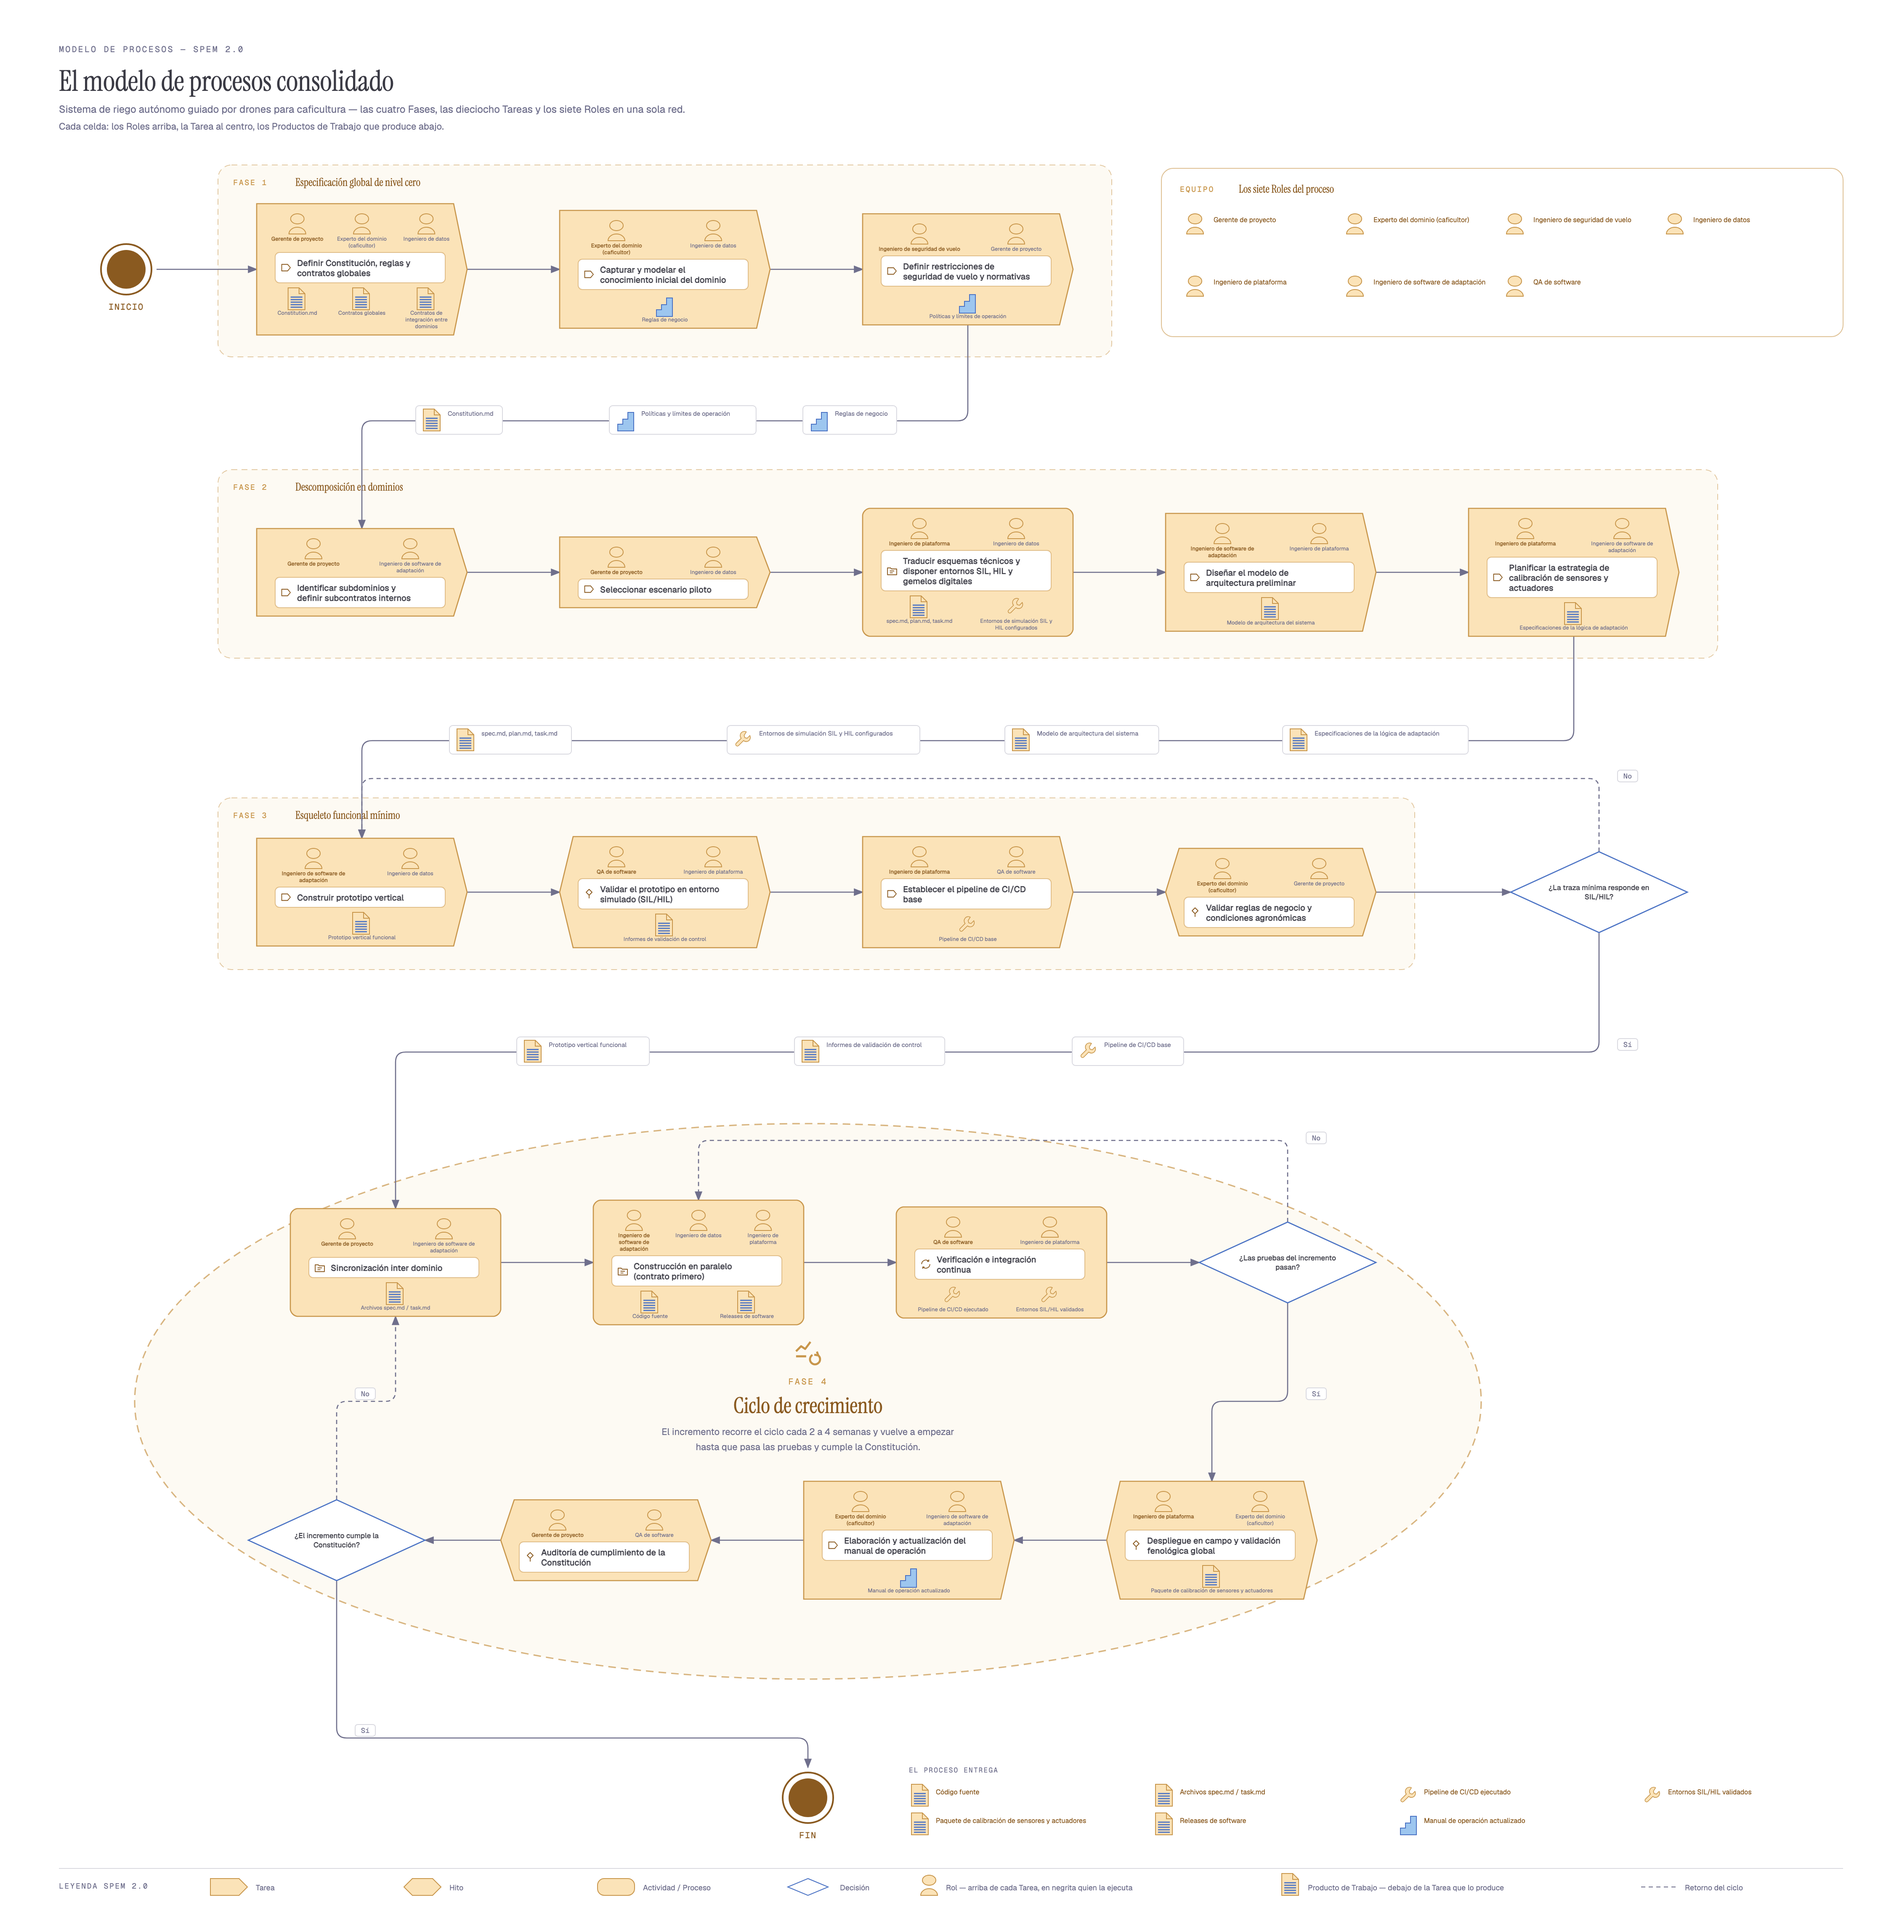
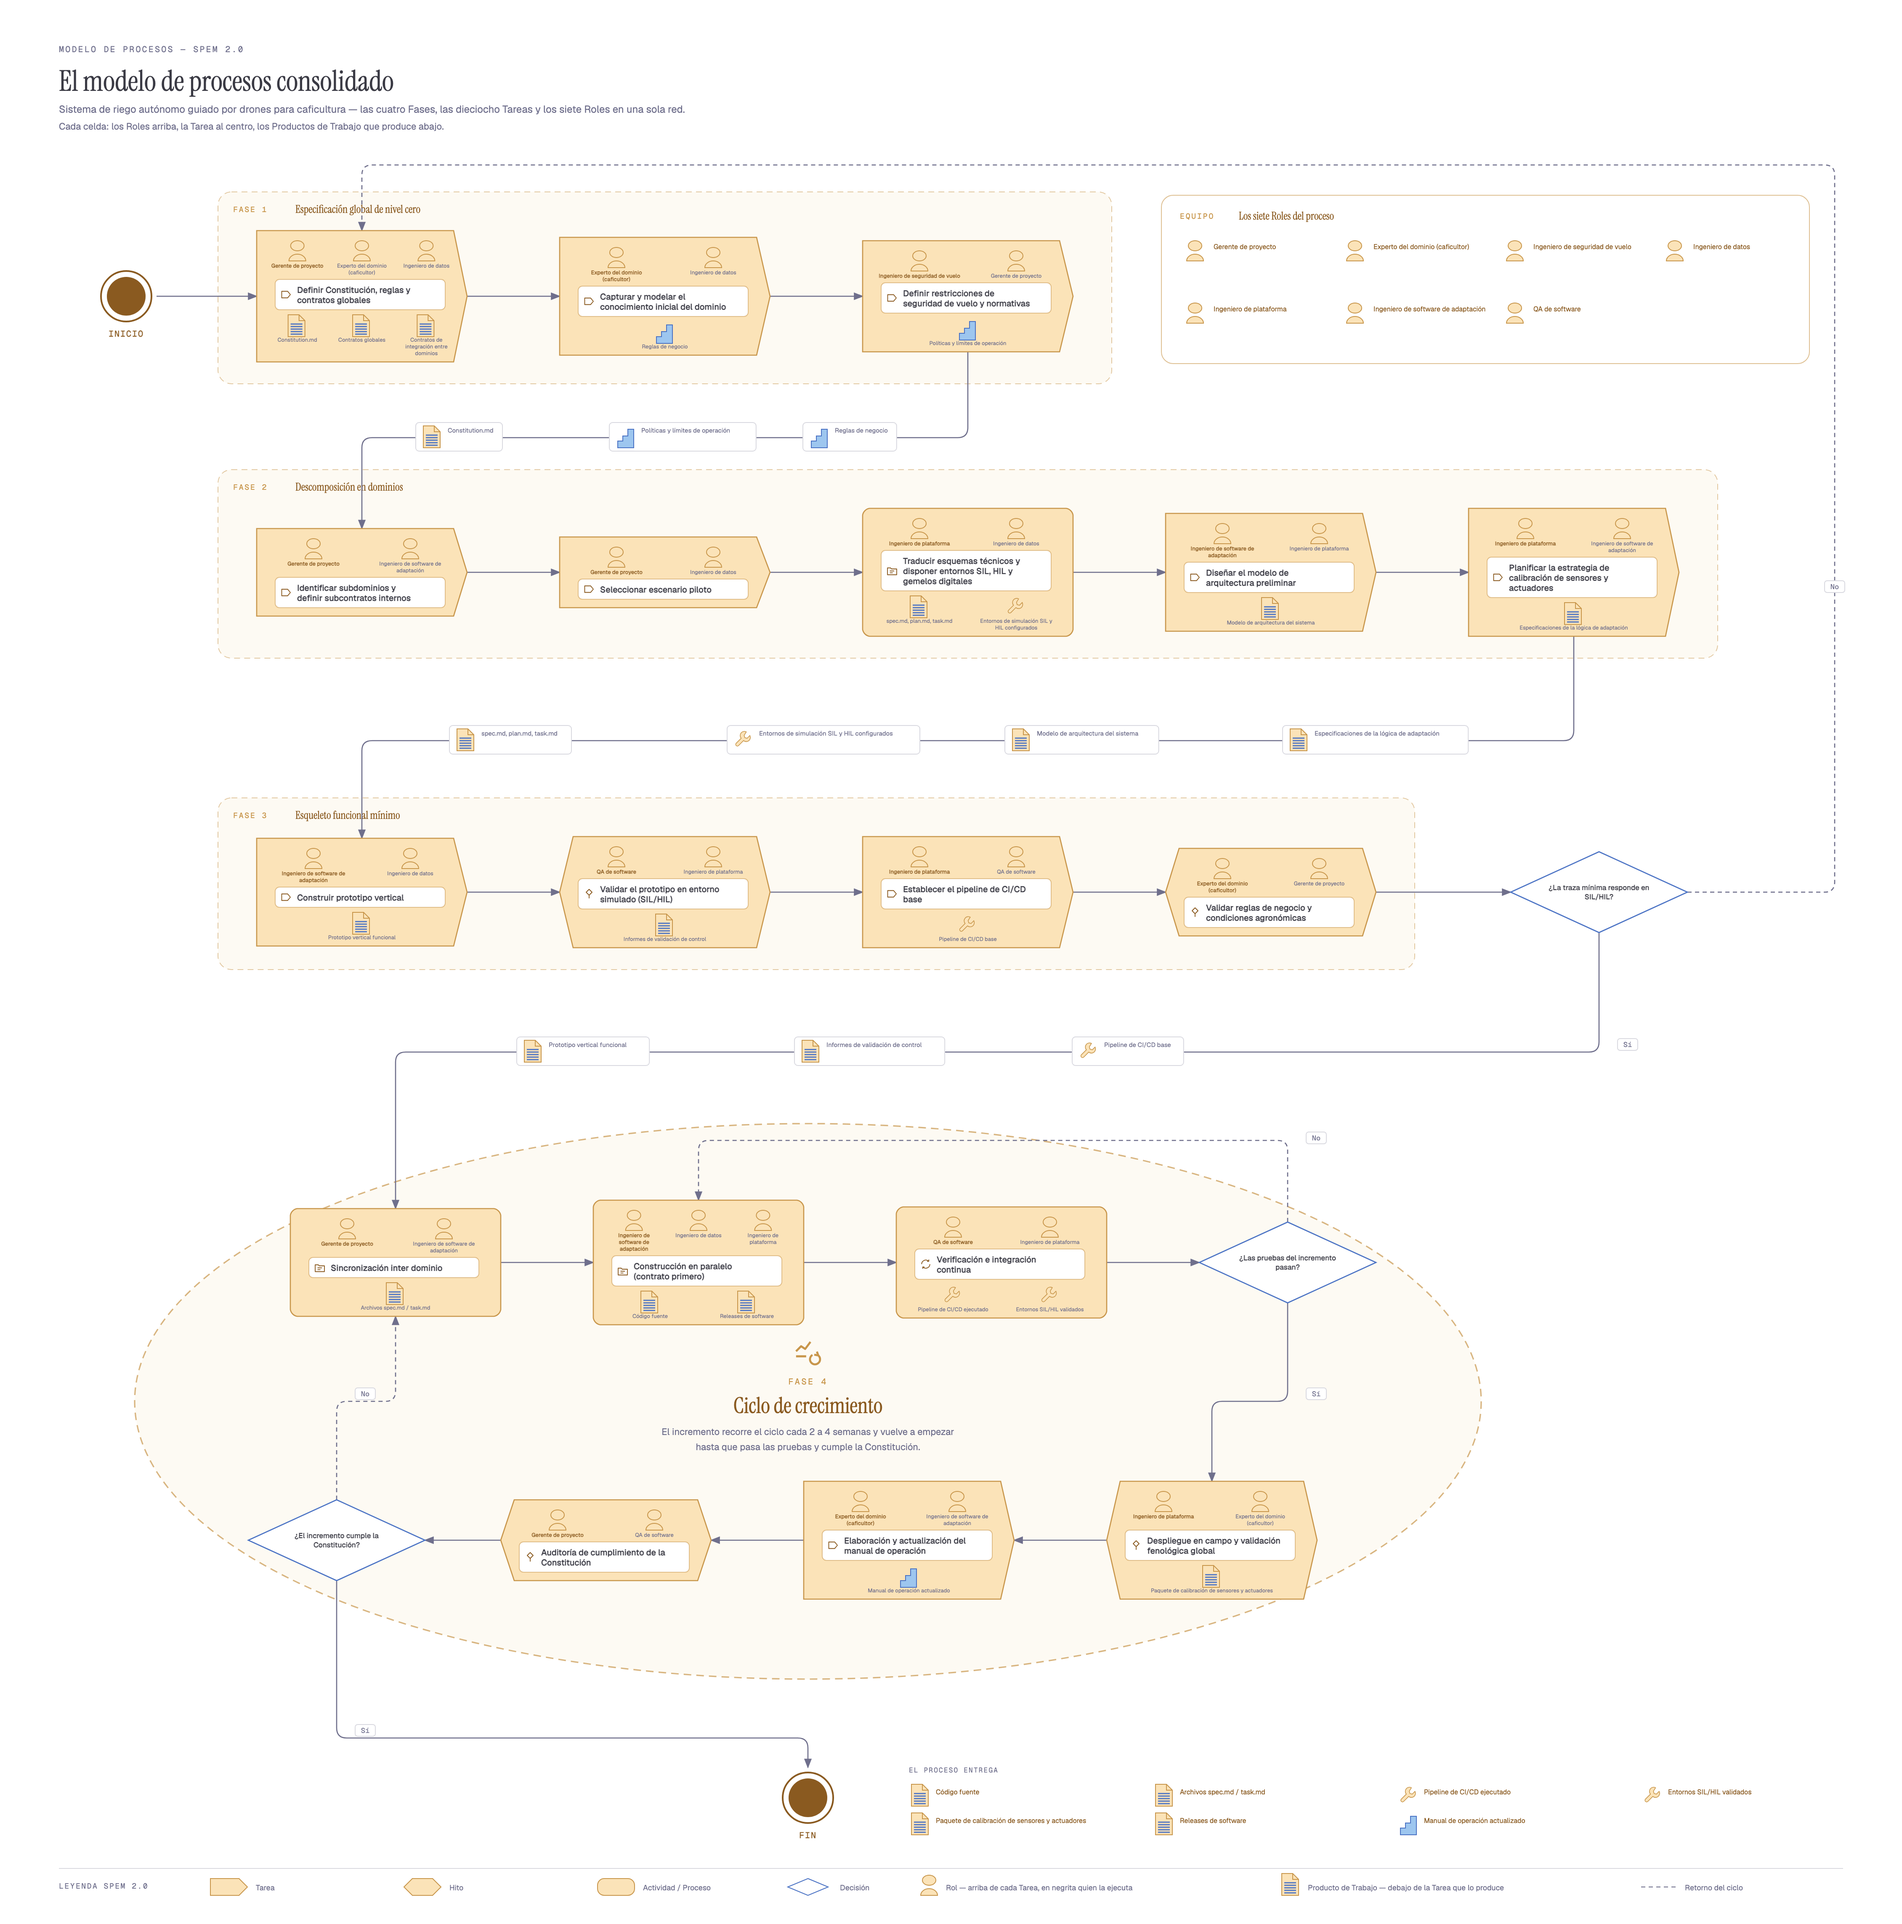
fix: la traza mínima que no responde vuelve a la Fase 1
El rombo de la Fase 3 devolvía a construir el prototipo. Si la traza mínima no
responde en SIL/HIL, lo que hay que revisar es el marco —Constitución, reglas y
contratos—, no el intento: el retorno va a la Fase 1.

El conector sale por la derecha del rombo y sube por fuera de las bandas, así
que la Fase 1 y el panel del equipo bajan 32px para dejarle el canal.

diff --git a/src/consolidado.ts b/src/consolidado.ts
@@ -185,7 +185,7 @@ function traspaso(productos: Producto[], x: number, y: number, paso = 260) {
 // El mapa de la figura. Bandas 1–3 en cascada; la Fase 4 cierra el ciclo dentro
 // de la elipse, con sus dos decisiones y sus dos retornos.
 const POS: Record<string, [number, number]> = {
-  "t1-1": [430, 320], "t1-2": [790, 320], "t1-3": [1150, 320],
+  "t1-1": [430, 352], "t1-2": [790, 352], "t1-3": [1150, 352],
   "t2-1": [430, 680], "t2-2": [790, 680], "t2-3": [1150, 680], "t2-4": [1510, 680], "t2-5": [1870, 680],
   "t3-1": [430, 1060], "t3-2": [790, 1060], "t3-3": [1150, 1060], "t3-4": [1510, 1060],
   "t4-1": [470, 1500], "t4-2": [830, 1500], "t4-3": [1190, 1500],
@@ -193,7 +193,9 @@ const POS: Record<string, [number, number]> = {
 };
 
 const ELIPSE = { cx: 960, cy: 1665, rx: 800, ry: 330 };
-const CANAL_12 = 500, CANAL_23 = 880, CANAL_34 = 1250;
+const CANAL_12 = 520, CANAL_23 = 880, CANAL_34 = 1250;
+// El canal del retorno a la Fase 1: por fuera de todo, a la derecha y por arriba.
+const RETORNO_X = 2180, RETORNO_Y = 196;
 
 export function consolidado(m: Modelo) {
   const tareas = new Map(m.fases.flatMap((f) => f.tareas.map((t) => [t.id, t] as const)));
@@ -249,9 +251,9 @@ export function consolidado(m: Modelo) {
   );
 
   // --- Fase 1: del arranque a la Constitución.
-  cuerpo.push(hito("INICIO", 150, 320));
+  cuerpo.push(hito("INICIO", 150, 352));
   aristas.push(
-    conector([[186, 320], izq(c["t1-1"])]),
+    conector([[186, 352], izq(c["t1-1"])]),
     conector([der(c["t1-1"]), izq(c["t1-2"])]),
     conector([der(c["t1-2"]), izq(c["t1-3"])]),
     // Traspaso a la Fase 2: baja por la derecha y vuelve al canal.
@@ -275,13 +277,17 @@ export function consolidado(m: Modelo) {
     conector([der(c["t3-2"]), izq(c["t3-3"])]),
     conector([der(c["t3-3"]), izq(c["t3-4"])]),
     conector([der(c["t3-4"]), [d0.cx - d0.w / 2, d0.cy]]),
-    // No: vuelve a construir el prototipo.
-    conector([[d0.cx, d0.cy - d0.h / 2], [d0.cx, 925], [430, 925], arriba(c["t3-1"])], true),
+    // No: la traza que no responde no se reintenta aquí — vuelve a la Fase 1, a
+    // revisar la Constitución, las reglas y los contratos que la sostienen.
+    conector(
+      [[d0.cx + d0.w / 2, d0.cy], [RETORNO_X, d0.cy], [RETORNO_X, RETORNO_Y], [430, RETORNO_Y], arriba(c["t1-1"])],
+      true,
+    ),
     // Sí: entra al ciclo.
     conector([[d0.cx, d0.cy + d0.h / 2], [d0.cx, CANAL_34], [470, CANAL_34], arriba(c["t4-1"])]),
   );
   cuerpo.push(d0.svg, traspaso(m.fases[2].salida, 620, CANAL_34, 330));
-  cuerpo.push(rotulo("No", d0.cx + 34, 925), rotulo("Sí", d0.cx + 34, CANAL_34 - 6));
+  cuerpo.push(rotulo("No", RETORNO_X, 700), rotulo("Sí", d0.cx + 34, CANAL_34 - 6));
 
   // --- Fase 4: el ciclo, en sentido horario.
   aristas.push(
@@ -325,9 +331,9 @@ export function consolidado(m: Modelo) {
 
   // --- el equipo completo, arriba a la derecha.
   const roles = [...new Set(m.fases.flatMap((f) => f.roles))];
-  const px0 = 1380, py0 = 200;
+  const px0 = 1380, py0 = 232, px1 = 2150;
   cuerpo.push(
-    `<rect x="${px0}" y="${py0}" width="${W - 70 - px0}" height="200" rx="14" fill="${PAPEL}" stroke="${TAN}" stroke-opacity="0.6"/>`,
+    `<rect x="${px0}" y="${py0}" width="${px1 - px0}" height="200" rx="14" fill="${PAPEL}" stroke="${TAN}" stroke-opacity="0.6"/>`,
     T("EQUIPO", px0 + 22, py0 + 28, { fs: 9, fill: TAN, f: MONO, ls: "0.16em" }),
     T("Los siete Roles del proceso", px0 + 92, py0 + 29, { fs: 13, fill: MARRON, f: SERIF }),
     ...roles.flatMap((rol, i) => {

diff --git a/docs/adr/0010-figura-consolidada.md b/docs/adr/0010-figura-consolidada.md
@@ -24,8 +24,9 @@ Se añade `src/consolidado.ts`: **una sola** figura con las dieciocho **Tareas**
 - **La red.** Las **Fases** 1 a 3 avanzan en cascada, cada una sobre su banda, y entre
   ellas los **Productos de Trabajo** del traspaso viajan **sobre** el conector.
 - **Las decisiones.** Tres rombos, con sus retornos punteados: la traza mínima que no
-  responde vuelve al prototipo, el incremento que no pasa las pruebas vuelve a
-  construcción, el que no cumple la **Constitution.md** vuelve a sincronización.
+  responde vuelve a la **Fase 1** —no al prototipo: si la traza no responde, lo que
+  está mal es el marco, no el intento—, el incremento que no pasa las pruebas vuelve a
+  construcción, y el que no cumple la **Constitution.md** vuelve a sincronización.
 - **El ciclo.** La **Fase 4** va dentro de una elipse: entra el prototipo validado y
   no se sale de ella hasta que el incremento pasa las dos puertas.
 

diff --git a/README.md b/README.md
@@ -19,7 +19,8 @@ El modelo entero como una **red**, en la composición del *process model* de EPF
 Composer: cada celda lleva sus **Roles** arriba, la **Tarea** al centro y sus
 **Productos de Trabajo** abajo; las **Fases** 1 a 3 avanzan en cascada con el traspaso
 sobre el conector, y la **Fase 4** se repite dentro de la elipse hasta que el
-incremento pasa las pruebas y cumple la **Constitution.md**. Ver [ADR-0010](docs/adr/0010-figura-consolidada.md).
+incremento pasa las pruebas y cumple la **Constitution.md**. Los tres rombos llevan su
+retorno: la traza mínima que no responde en SIL/HIL vuelve a la **Fase 1**. Ver [ADR-0010](docs/adr/0010-figura-consolidada.md).
 
 ![El modelo de procesos consolidado](figuras/consolidado-modelo-de-procesos.png)
 
